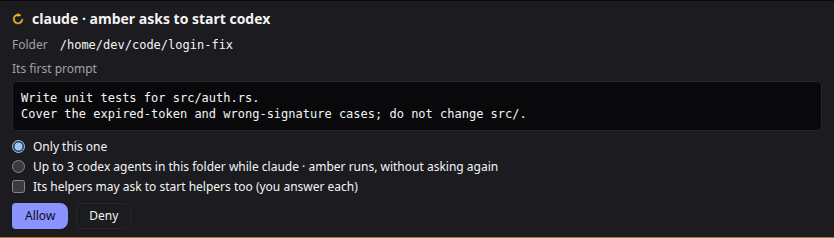
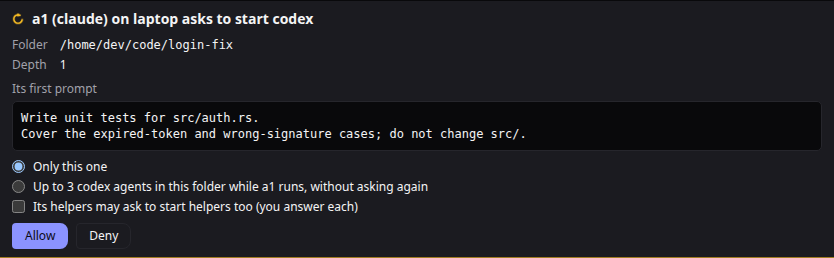
fix(web,tui): show a start request from its signed detail, hidden characters as escapes (ADR-0057)
The approval card and the TUI now take asker, its kind, machine, kind,
folder, worktree and depth from the signed detail (never hub-supplied
fields) and show every hidden or control character as a visible
\u{...} escape, the same set the node refuses (agora_core::text), so
what is shown is what is signed. The TUI's plain() escapes hidden
characters instead of passing them through.

diff --git a/apps/web/src/components/StartApproval.tsx b/apps/web/src/components/StartApproval.tsx
@@ -1,6 +1,6 @@
 import { useId, useState } from 'react';
 import { t } from '../i18n';
-import type { ApprovalModel, StartRequest } from '../net/view';
+import { visible, type ApprovalModel, type StartRequest } from '../net/view';
 import { StateMark } from './StateBadge';
 
 export interface StartChoice { grant: number; nested: boolean }
@@ -8,8 +8,10 @@ export interface StartChoice { grant: number; nested: boolean }
 // How many starts a "more like this" answer allows, this one included (the node takes at most 10).
 export const GRANT_SIZE = 3;
 
-// ADR-0057: an agent asks to start another. Everything it asks for is shown before the user answers: who asks, what would start, where
-// (marked when outside its own folder) and the whole first prompt. The prompt is the agent's text, shown as text only.
+// ADR-0057: an agent asks to start another. Everything it asks for is shown before the user answers, all of it from the signed request
+// itself (never from what the hub says around it): who asks and on which machine, what would start, where (marked when outside its own
+// folder), whether in its own worktree, how deep, and the whole first prompt. It is the agent's text, shown as text only, with any
+// hidden character written as a visible escape.
 export function StartApproval({ approval, start, busy, onResolve }: {
   approval: ApprovalModel;
   start: StartRequest;
@@ -21,30 +23,33 @@ export function StartApproval({ approval, start, busy, onResolve }: {
   // The same request can show in two places at once (its pane and the details panel): each has its own radio group.
   const group = useId();
   // The node gives a grant only when the request says it may (inside the asker's folder, not a shell); the choice is not offered otherwise.
+  const title = t('start-approval-title', { name: visible(start.agent), agentKind: visible(start.agentKind), node: visible(start.node), kind: visible(start.kind) });
   const choice = (): StartChoice => (start.grantAllowed ? { grant: more ? GRANT_SIZE : 0, nested: nested && start.depth < 2 } : { grant: 0, nested: false });
   return (
-    <article role="alert" aria-label={t('start-approval-title', { name: approval.agentName, kind: start.kind })}
+    <article role="alert" aria-label={title}
       className="flex flex-col gap-2 border-b border-needs-you/60 bg-surface-2 px-3 py-2">
       <div className="flex items-center gap-2">
         <StateMark state="needs-you" />
-        <strong className="min-w-0 flex-1">{t('start-approval-title', { name: approval.agentName, kind: start.kind })}</strong>
+        <strong className="min-w-0 flex-1 break-words">{title}</strong>
       </div>
       <dl className="m-0 grid grid-cols-[auto_minmax(0,1fr)] gap-x-3 gap-y-1 text-xs">
         <dt className="text-muted">{t('start-approval-folder')}</dt>
-        <dd className="m-0 break-all font-mono" dir="ltr">{start.folder}{start.worktree ? ` · ${t('start-approval-worktree')}` : ''}</dd>
+        <dd className="m-0 break-all font-mono" dir="ltr">{visible(start.folder)}{start.worktree ? ` · ${t('start-approval-worktree')}` : ''}</dd>
+        <dt className="text-muted">{t('start-approval-depth')}</dt>
+        <dd className="m-0">{start.depth}</dd>
       </dl>
       {!start.inside && <p className="m-0 text-xs text-needs-you">{t('start-approval-outside')}</p>}
       <div className="text-xs">
         <span className="text-muted">{t('start-approval-prompt')}</span>
         {start.prompt
-          ? <pre className="m-0 mt-1 max-h-48 overflow-auto whitespace-pre-wrap break-words rounded-xs border border-line bg-surface-0 p-2 font-mono text-xs">{start.prompt}</pre>
+          ? <pre className="m-0 mt-1 max-h-48 overflow-auto whitespace-pre-wrap break-words rounded-xs border border-line bg-surface-0 p-2 font-mono text-xs">{visible(start.prompt)}</pre>
           : <p className="m-0 mt-1 text-muted">{t('start-approval-no-prompt')}</p>}
       </div>
       {start.inside && !start.grantAllowed && <p className="m-0 text-xs text-muted">{t('start-approval-no-grant')}</p>}
       {start.grantAllowed && <fieldset className="m-0 flex flex-col gap-1 border-0 p-0 text-xs">
         <legend className="sr-only">{t('start-approval-scope')}</legend>
         <label className="flex items-center gap-2"><input type="radio" name={group} checked={!more} onChange={() => setMore(false)} />{t('start-approval-once')}</label>
-        <label className="flex items-center gap-2"><input type="radio" name={group} checked={more} onChange={() => setMore(true)} />{t('start-approval-more', { count: GRANT_SIZE, kind: start.kind, name: approval.agentName })}</label>
+        <label className="flex items-center gap-2"><input type="radio" name={group} checked={more} onChange={() => setMore(true)} />{t('start-approval-more', { count: GRANT_SIZE, kind: visible(start.kind), name: visible(start.agent) })}</label>
         {start.depth < 2 && <label className="flex items-center gap-2"><input type="checkbox" checked={nested} onChange={(e) => setNested(e.target.checked)} />{t('start-approval-nested')}</label>}
       </fieldset>}
       <div className="flex gap-2">

diff --git a/apps/web/src/net/view.ts b/apps/web/src/net/view.ts
@@ -309,7 +309,16 @@ export interface ApprovalModel {
 
 // An agent's request to start another (ADR-0057), read from the approval's detail. Every field is the asking agent's text: shown, never
 // interpreted. The detail itself is what the decision is signed over, so it is kept as it came.
-export interface StartRequest { kind: string; folder: string; prompt: string; inside: boolean; worktree: boolean; depth: number; grantAllowed: boolean }
+export interface StartRequest { agent: string; agentKind: string; node: string; kind: string; folder: string; prompt: string; inside: boolean; worktree: boolean; depth: number; grantAllowed: boolean }
+
+// Characters that are invisible or change how text around them looks (crates/agora-core/src/text.rs `is_hidden`): every format
+// character, the tag block, variation selectors and fillers. The node refuses them in a start request; anything that reaches a card
+// is shown as a visible escape, with control characters other than line breaks and tabs, so what is shown is what is signed.
+const HIDDEN = /[\u00ad\u0600-\u0605\u061c\u06dd\u070f\u0890\u0891\u08e2\u115f\u1160\u180e\u200b-\u200f\u202a-\u202e\u2060-\u2064\u2066-\u206f\u3164\ufe00-\ufe0f\ufeff\uffa0\ufff9-\ufffb\u{110bd}\u{110cd}\u{13430}-\u{1343f}\u{1bca0}-\u{1bca3}\u{1d173}-\u{1d17a}\u{e0000}-\u{e007f}\u{e0100}-\u{e01ef}]|[\u0000-\u0008\u000b-\u001f\u007f-\u009f]/gu;
+
+export function visible(text: string): string {
+  return text.replace(HIDDEN, (c) => `\\u{${(c.codePointAt(0) ?? 0).toString(16)}}`);
+}
 
 export function startRequest(action: string, detail: string): StartRequest | undefined {
   if (action !== 'agent.start') return undefined;
@@ -317,7 +326,7 @@ export function startRequest(action: string, detail: string): StartRequest | und
     const d = JSON.parse(detail) as Record<string, unknown>;
     const s = (k: string) => (typeof d[k] === 'string' ? (d[k] as string) : '');
     // `grant_allowed` (a scoped grant may be given: not for a shell or plain terminal program); a node that does not say so offers none.
-    return { kind: s('kind'), folder: s('folder'), prompt: s('prompt'), inside: d.inside === true, worktree: d.worktree === true, depth: typeof d.depth === 'number' ? d.depth : 1, grantAllowed: d.grant_allowed === true };
+    return { agent: s('agent'), agentKind: s('agent_kind'), node: s('node'), kind: s('kind'), folder: s('folder'), prompt: s('prompt'), inside: d.inside === true, worktree: d.worktree === true, depth: typeof d.depth === 'number' ? d.depth : 1, grantAllowed: d.grant_allowed === true };
   } catch {
     return undefined;
   }

diff --git a/apps/web/src/net/spawn.test.ts b/apps/web/src/net/spawn.test.ts
@@ -2,7 +2,7 @@
 import { describe, expect, it } from 'vitest';
 import { helperTree } from '../model';
 import { signStart, startSignedMessage, thisDevice, toHex, type KeyStore } from './approval';
-import { applyEvent, approvalList, emptyView, fromSnapshot, startRequest, tiles } from './view';
+import { applyEvent, approvalList, emptyView, fromSnapshot, startRequest, tiles, visible } from './view';
 
 function memoryStore(): KeyStore {
   let saved: Awaited<ReturnType<KeyStore['load']>>;
@@ -24,6 +24,11 @@ describe('agents that start agents', () => {
     expect(tiles(s).find((x) => x.id === 'n/b')?.parentId).toBe('n/a');
   });
 
+  it('shows hidden and control characters as visible escapes, the same set the node refuses', () => {
+    expect(visible('a\u200bb\u202ec\u{e0041}d\ufe0fe\u3164f\u00adg\u001bh\nk\tl')).toBe('a\\u{200b}b\\u{202e}c\\u{e0041}d\\u{fe0f}e\\u{3164}f\\u{ad}g\\u{1b}h\nk\tl');
+    expect(visible('Grüße 🚀 çalış')).toBe('Grüße 🚀 çalış');
+  });
+
   it('puts helpers right under their parent', () => {
     const list = [{ id: 'c', parentId: 'b' }, { id: 'x' }, { id: 'b', parentId: 'a' }, { id: 'a' }, { id: 'orphan', parentId: 'gone' }];
     expect(helperTree(list).map((e) => `${e.agent.id}:${e.depth}`)).toEqual(['x:0', 'a:0', 'b:1', 'c:2', 'orphan:0']);
@@ -31,7 +36,7 @@ describe('agents that start agents', () => {
 
   it('reads a start request and leaves other approvals alone', () => {
     const detail = JSON.stringify({ kind: 'codex', folder: '/w', prompt: 'fix it', inside: true, worktree: false, depth: 1, grant_allowed: true });
-    expect(startRequest('agent.start', detail)).toEqual({ kind: 'codex', folder: '/w', prompt: 'fix it', inside: true, worktree: false, depth: 1, grantAllowed: true });
+    expect(startRequest('agent.start', detail)).toEqual({ agent: '', agentKind: '', node: '', kind: 'codex', folder: '/w', prompt: 'fix it', inside: true, worktree: false, depth: 1, grantAllowed: true });
     // A shell (or an older node) offers no grant.
     expect(startRequest('agent.start', JSON.stringify({ kind: 'shell', inside: true }))?.grantAllowed).toBe(false);
     expect(startRequest('shell', detail)).toBeUndefined();

diff --git a/apps/web/src/fixtures.ts b/apps/web/src/fixtures.ts
@@ -26,7 +26,7 @@ export const demoProjects = [
 // ADR-0057: a helper the first demo agent started, and that agent's request to start another (for the gallery).
 export const demoHelper: AgentTileModel = { id: 'a8', name: 'codex · sky', accent: '#38bdf8', machine: 'Laptop', workspace: 'login-fix', state: 'working', preview: 'Writing tests…', parentId: 'a1', parentName: 'claude · amber' };
 const demoStartDetail = JSON.stringify({ node: 'laptop', agent: 'a1', agent_kind: 'claude', kind: 'codex', folder: '/home/dev/code/login-fix', inside: true, worktree: false, depth: 1, grant_allowed: true, prompt: 'Write unit tests for src/auth.rs.\nCover the expired-token and wrong-signature cases; do not change src/.' });
-export const demoStartApproval = { id: 'demo/2', node: 'demo', localId: '2', agentId: 'a1', agentName: 'claude · amber', action: 'agent.start', detail: demoStartDetail, expiresAtMs: 0, start: { kind: 'codex', folder: '/home/dev/code/login-fix', prompt: 'Write unit tests for src/auth.rs.\nCover the expired-token and wrong-signature cases; do not change src/.', inside: true, worktree: false, depth: 1, grantAllowed: true } };
+export const demoStartApproval = { id: 'demo/2', node: 'demo', localId: '2', agentId: 'a1', agentName: 'claude · amber', action: 'agent.start', detail: demoStartDetail, expiresAtMs: 0, start: { agent: 'a1', agentKind: 'claude', node: 'laptop', kind: 'codex', folder: '/home/dev/code/login-fix', prompt: 'Write unit tests for src/auth.rs.\nCover the expired-token and wrong-signature cases; do not change src/.', inside: true, worktree: false, depth: 1, grantAllowed: true } };
 
 // The demo window's one waiting approval, for the first demo agent.
 export const demoApprovals = [{ id: 'demo/1', node: 'demo', localId: '1', agentId: 'a1', agentName: 'claude · amber', action: 'Edit src/auth.rs', detail: '+12 −3', expiresAtMs: 0 }];

diff --git a/apps/web/src/i18n.test.ts b/apps/web/src/i18n.test.ts
@@ -18,7 +18,7 @@ describe('i18n', () => {
       for (const m of readFileSync(f, 'utf8').matchAll(/\bt\('([a-z0-9-]+)'/g)) keys.add(m[1] as string);
     }
     expect(keys.size).toBeGreaterThan(5);
-    for (const k of keys) expect(t(k, { machine: 'm', id: 'i', name: 'n', count: 1, online: 1, total: 1, when: 'w', code: 1, reason: 'r', amount: '$1', date: 'd', kind: 'k' }), k).not.toBe(k);
+    for (const k of keys) expect(t(k, { machine: 'm', id: 'i', name: 'n', count: 1, online: 1, total: 1, when: 'w', code: 1, reason: 'r', amount: '$1', date: 'd', kind: 'k', agentKind: 'a', node: 'n' }), k).not.toBe(k);
   });
   it('has the dynamic state and theme keys', () => {
     for (const s of ['working', 'needs-you', 'finished', 'idle', 'unknown']) expect(t(`state-${s}`)).not.toBe(`state-${s}`);

diff --git a/crates/agora-tui/src/render.rs b/crates/agora-tui/src/render.rs
@@ -125,14 +125,20 @@ pub fn render(
                 } else {
                     key!("tui-asks-start-outside")
                 },
+                // Everything from the signed request itself, never from what the hub says around it, and every hidden or control
+                // character as a visible escape: what is shown is what the answer is signed over.
                 &[
-                    ("agent", Arg::Str(local(&a.agent_id).to_string())),
-                    ("kind", Arg::Str(plain(&start.kind))),
-                    ("folder", Arg::Str(plain(&start.folder))),
+                    ("agent", Arg::Str(visible(&start.agent))),
+                    ("agent_kind", Arg::Str(visible(&start.agent_kind))),
+                    ("node", Arg::Str(visible(&start.node))),
+                    ("kind", Arg::Str(visible(&start.kind))),
+                    ("folder", Arg::Str(visible(&start.folder))),
+                    ("worktree", Arg::Str(start.worktree.to_string())),
+                    ("depth", Arg::Num(start.depth)),
                 ],
             );
             out.push(format!("  {on}!{off} {line}"));
-            for l in plain(&start.prompt).lines() {
+            for l in visible(&start.prompt).lines() {
                 out.push(format!("      {dim}{l}{reset}"));
             }
             continue;
@@ -264,10 +270,15 @@ pub fn render(
 
 /// What an `agent.start` request asks for (ADR-0057), from its detail; `None` for any other request or a detail that does not parse.
 struct StartRequest {
+    agent: String,
+    agent_kind: String,
+    node: String,
     kind: String,
     folder: String,
     prompt: String,
     inside: bool,
+    worktree: bool,
+    depth: i64,
 }
 
 fn start_request(action: &str, detail: &str) -> Option<StartRequest> {
@@ -281,14 +292,24 @@ fn start_request(action: &str, detail: &str) -> Option<StartRequest> {
             .unwrap_or("")
             .to_string()
     };
+    let flag = |k: &str| {
+        v.get(k)
+            .and_then(serde_json::Value::as_bool)
+            .unwrap_or(false)
+    };
     Some(StartRequest {
+        agent: s("agent"),
+        agent_kind: s("agent_kind"),
+        node: s("node"),
         kind: s("kind"),
         folder: s("folder"),
         prompt: s("prompt"),
-        inside: v
-            .get("inside")
-            .and_then(serde_json::Value::as_bool)
-            .unwrap_or(false),
+        inside: flag("inside"),
+        worktree: flag("worktree"),
+        depth: v
+            .get("depth")
+            .and_then(serde_json::Value::as_i64)
+            .unwrap_or(1),
     })
 }
 
@@ -325,6 +346,11 @@ fn helper_order<'a>(agents: &[&'a AgentSnapshot]) -> Vec<(&'a AgentSnapshot, usi
     out
 }
 
+/// `agora_core::text::visible`, with each line break kept (a prompt's lines are shown as lines).
+fn visible(text: &str) -> String {
+    agora_core::text::visible(text)
+}
+
 /// Text an agent or a person wrote is shown as plain text: control characters (escape sequences that could move the cursor, change the
 /// title or paste into the prompt) and bidirectional overrides are dropped, a tab becomes spaces.
 pub fn plain(text: &str) -> String {
@@ -335,6 +361,14 @@ pub fn plain(text: &str) -> String {
             c if c.is_control() => None,
             '\u{202a}'..='\u{202e}' | '\u{2066}'..='\u{2069}' => None,
             c => Some(c),
+        })
+        // Other invisible characters (zero-width, tags, fillers) are shown as escapes rather than passed through unseen.
+        .map(|c| {
+            if agora_core::text::is_hidden(c) {
+                format!("\\u{{{:x}}}", u32::from(c))
+            } else {
+                c.to_string()
+            }
         })
         .collect()
 }
@@ -582,16 +616,18 @@ mod tests {
         );
         snap.approvals[0].action = "agent.start".into();
         snap.approvals[0].detail =
-            r#"{"kind":"claude-code","folder":"/w","inside":true,"prompt":"line one\nline \u001b[2Jtwo"}"#
+            r#"{"agent":"agent-1","agent_kind":"codex","node":"laptop","kind":"claude-code","folder":"/w","inside":true,"worktree":true,"depth":1,"prompt":"line one\nline \u001b[2Jtwo\u200b"}"#
                 .into();
         let lines = render(&snap, false, false, "", "", 0, &t);
         let text = lines.join("\n");
         assert!(
-            text.contains("tui-asks-start[agent=agent-1,kind=claude-code,folder=/w]"),
+            text.contains("tui-asks-start[agent=agent-1,agent_kind=codex,node=laptop,kind=claude-code,folder=/w,worktree=true,depth=1]"),
             "{text}"
         );
         assert!(
-            text.contains("line one") && text.contains("line [2Jtwo") && !text.contains('\u{1b}'),
+            text.contains("line one")
+                && text.contains("line \\u{1b}[2Jtwo\\u{200b}")
+                && !text.contains('\u{1b}'),
             "{text}"
         );
         let parent = lines
